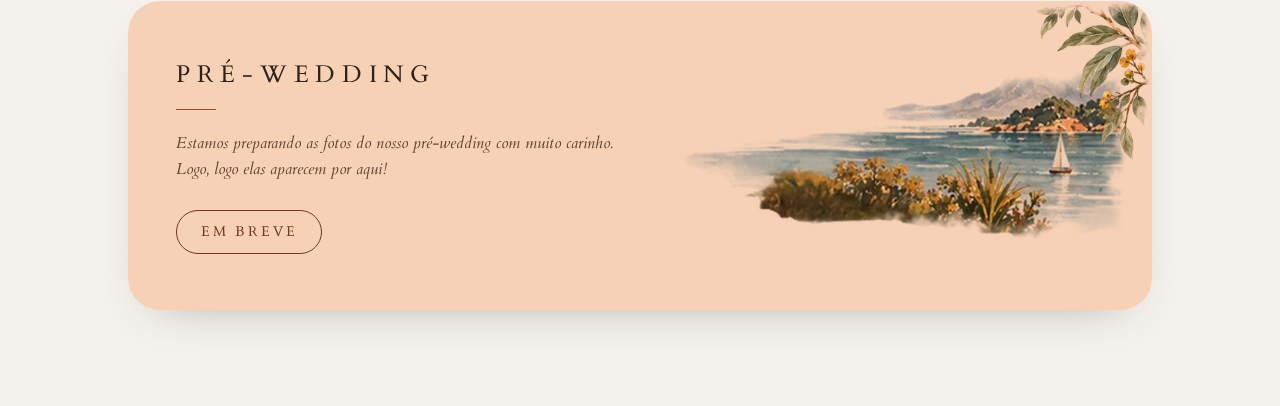
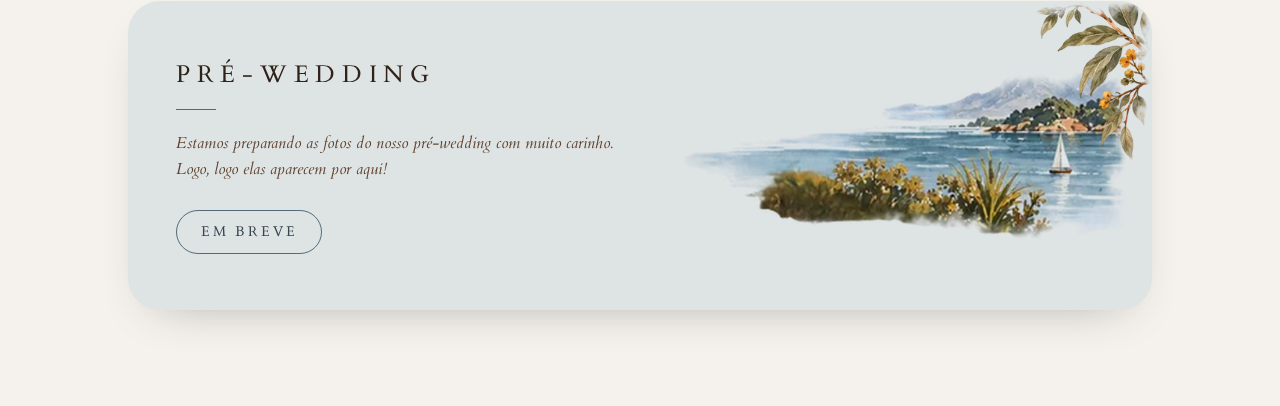
Pré-wedding: card azul

diff --git a/components/organisms/PreWeddingSection.tsx b/components/organisms/PreWeddingSection.tsx
@@ -4,7 +4,7 @@ import type { Dictionary } from "@/lib/i18n/dictionaries";
 
 /**
  * Organism `PreWeddingSection` (#pre-wedding) — aviso "em breve" das fotos do
- * pré-wedding, no mesmo card do "Presenteie os noivos" (aqui em pêssego claro, pra diferenciar do sálvia do de Presentes;
+ * pré-wedding, no mesmo card do "Presenteie os noivos" (aqui em ardósia, o azul da paleta, pra diferenciar do sálvia do de Presentes;
  * título espaçado, fio, subtítulo e texto em itálico), SEM botão por
  * enquanto. À direita, a outra cena da aquarela da baía (enseada com veleiro).
  * Quando as fotos chegarem, é só trocar por uma galeria ou botão.
@@ -14,16 +14,16 @@ export function PreWeddingSection({ t }: { t: Dictionary["prewedding"] }) {
     <section id="pre-wedding" aria-labelledby="pre-wedding-titulo" className="relative isolate px-6 pb-section-gap">
       <PaintReveal
         variant="rise"
-        className="relative mx-auto grid max-w-5xl overflow-hidden rounded-[2rem] bg-pessego-50 shadow-[0_18px_50px_-30px_rgba(45,43,35,0.45)] md:grid-cols-[1.15fr_1fr]"
+        className="relative mx-auto grid max-w-5xl overflow-hidden rounded-[2rem] bg-ardosia-50/45 shadow-[0_18px_50px_-30px_rgba(45,43,35,0.45)] md:grid-cols-[1.15fr_1fr]"
       >
         <div className="relative z-10 px-8 py-10 md:px-12 md:py-14">
           <h2 id="pre-wedding-titulo" className="font-body text-400 uppercase tracking-[0.2em] text-text-primary sm:tracking-[0.28em]">
             {t.title}
           </h2>
-          <span aria-hidden="true" className="mt-4 block h-px w-10 bg-terracota-500" />
+          <span aria-hidden="true" className="mt-4 block h-px w-10 bg-ardosia-700" />
           <p className="mt-5 max-w-md font-body text-200 italic leading-relaxed text-text-secondary">{t.lead}</p>
           {/* "Em breve" como pílula contornada embaixo do texto (no lugar do botão, enquanto as fotos não chegam) */}
-          <span className="mt-7 inline-flex min-h-[44px] items-center rounded-pill border border-terracota-700 px-6 font-body text-100 uppercase tracking-[0.2em] text-terracota-700">
+          <span className="mt-7 inline-flex min-h-[44px] items-center rounded-pill border border-ardosia-700 px-6 font-body text-100 uppercase tracking-[0.2em] text-ardosia-800">
             {t.sub}
           </span>
         </div>
